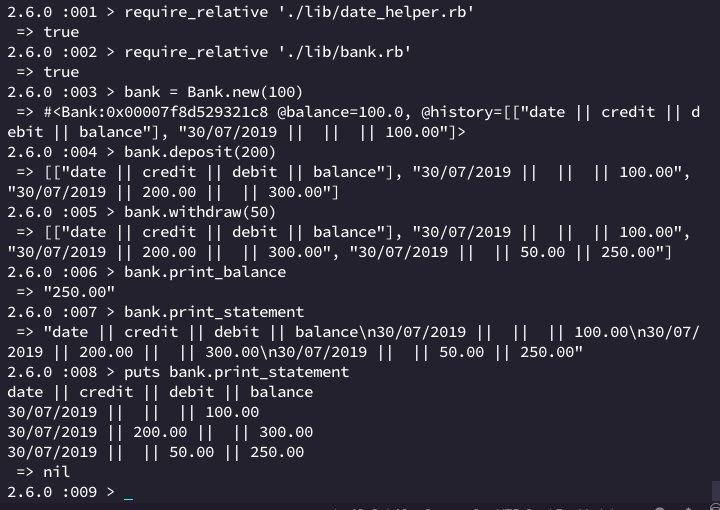
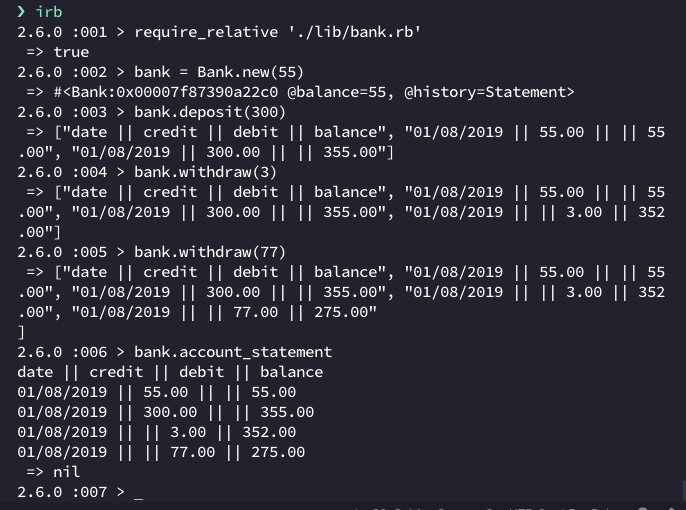
README instructions and new image

Changed region(s): [[0.0, 0.0, 0.9796, 1.0], [0.9796, 0.9412, 1.0, 1.0]]

diff --git a/README.md b/README.md
@@ -1,24 +1,25 @@
 # Bank tech test
 
+Bank is a small command line app that lets you deposit and withdraw currency and keep track of your transactions for as long as your Terminal session lives. Terminating the session erases all your financial information - it's fully secure! Untraceable! Tax free!
+
+Bank is a Makers Academy Week 10 tech test.
+
 ## How to use
 
-1. clone/download this repo
-2. go to the `lib/bank.rb` file and comment out the top line (you'll need to uncomment it to run the tests)
-3. open irb, requiring both the `date_helper.rb` and the `bank.rb` file, like so:
+1. Clone/download this repo
+2. Open irb and require the `bank.rb` file, like so:
 
 ```
-$ irb
-$ require_relative './lib/date_helper.rb'
- => true 
-$ require_relative './lib/bank.rb'
+> irb
+> require_relative './lib/bank.rb'
  => true 
 ```
 
-4. to open a new bank, run `Bank.new(sum)` in your terminal, replacing the sum with your starting balance; otherwise it will default to 0
-5. To make a deposit, use `bank.deposit(sum)`
-6. To withdraw, use `bank.withdraw(sum)`
-7. To view your full dated statement, run `bank.print_statement`
-8. You can also view your balance alone with `bank.print_balance`
+3. To start your command line bank, run `Bank.new(sum)` in your terminal, replacing the sum with your starting balance; otherwise it will default to 0
+4. To make a deposit, use `bank.deposit(sum)`
+5. To withdraw money, use `bank.withdraw(sum)`
+6. To view your full dated statement, run `bank.account_statement`
+7. You can also view your balance alone with `bank.account_balance`
 
 **See it in action!**
 
@@ -27,11 +28,9 @@ $ require_relative './lib/bank.rb'
 
 ### To run tests
 
-1. in the project directory, run `bundle install`
-2. run `rspec` - should also display test coverage
+1. In the project directory, run `bundle install`
+2. Run `rspec` - should also display test coverage
 3. To run linting: run `rubocop`
-4. in case of an error, make sure the top line in `bank.rb` is not commented out
-
 
 ## Functionality
 
@@ -59,10 +58,12 @@ date || credit || debit || balance
 
 ### Initial approach:
 
-Bank - single class  
-Basic functionality - Bank is launched in an empty state, prints out an empty dated statement  
-Creating a Date helper to use in both tests and code  
-Test for the date helper  
-Statement method - returns from other methods: adds header, history formatted  
-simple methods first going by the scenario from spec: deposit, withdrawal  
-added private methods to format and return numbers with trailing zeroes  
+* Bank - single class  
+* Basic functionality - Bank is launched in an empty state, prints out an empty dated statement  
+* Creating a Date helper to use in both tests and code  
+* Test for the date helper  
+* Statement method - returns from other methods: adds header, history formatted  
+* Expanded test coverage into both unit and feature tests
+* simple methods first going by the scenario from spec: deposit, withdrawal  
+* added private methods to format and return numbers with trailing zeroes   
+* Refactor: in accordance with OO principles I broke down the Bank class into single-purpose subclasses; I also removed the method that formatted the sums and replaced it with string interpolation
